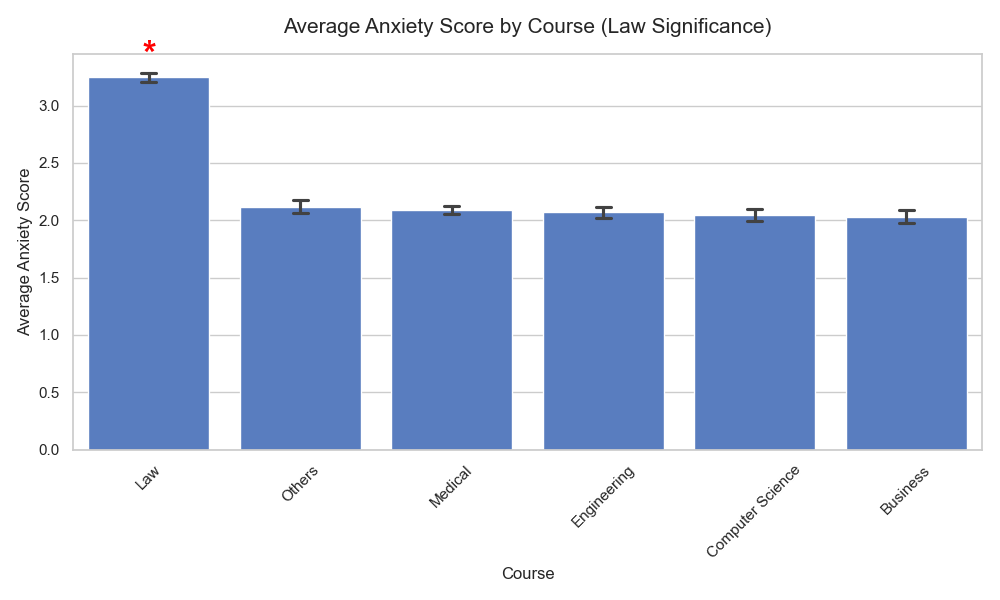
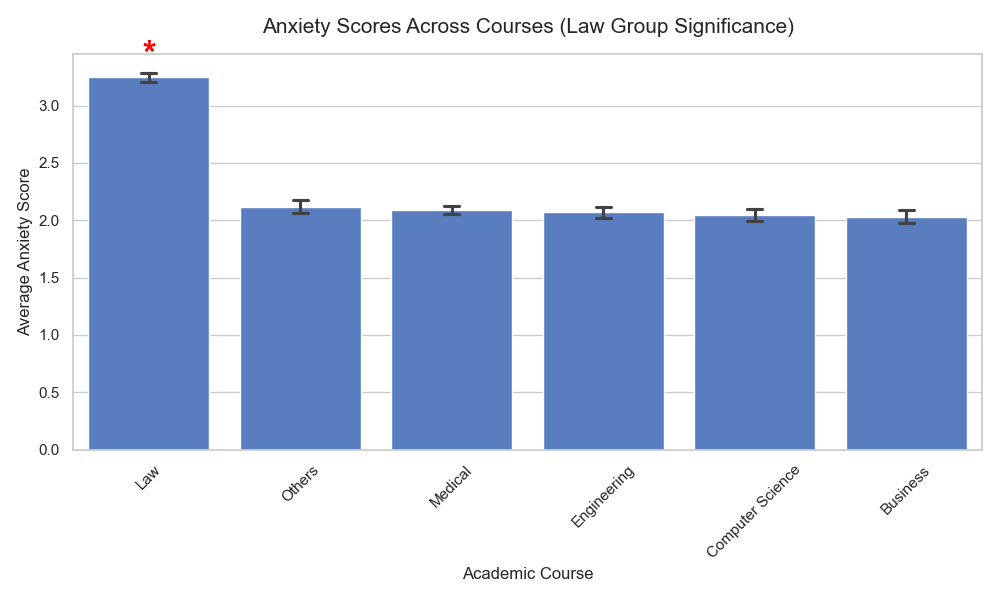
sun_ch2

Changed region(s): [[0.248, 0.03, 0.806, 0.06], [0.465, 0.93, 0.589, 0.99]]

diff --git a/visualizer.py b/visualizer.py
@@ -4,9 +4,10 @@ import matplotlib.pyplot as plt
 
 def annotate_significance(ax, variable, order):
     """
-    Helper function to place significance stars above bars based on Tukey results.
+    Adds visual markers (red asterisks) above specific bars to indicate 
+    statistical significance found in Tukey HSD post-hoc tests.
     """
-    # Map each variable to its most significant 'Outlier' group found in analysis
+    # Mapping each variable to the group that showed significant deviation in analysis
     highlights = {
         'Stress_Level': 'Medical',
         'Anxiety_Score': 'Law',
@@ -15,75 +16,75 @@ def annotate_significance(ax, variable, order):
     
     if variable in highlights:
         target_group = highlights[variable]
+        # Iterate through the bars to find the match and place the star
         for i, bar_name in enumerate(order):
             if bar_name == target_group:
-                # Add an asterisk above the target bar
+                # Get the height of the bar to position the text above it
                 height = ax.patches[i].get_height()
                 ax.text(i, height + 0.1, '*', ha='center', fontsize=25, 
                         color='red', fontweight='bold')
 
 def create_bar_plot(df, variable, title, logger):
     """
-    Generates a high-quality bar chart for a metric, sorted by mean values.
-    Includes Standard Error (SE) bars and significance markers.
+    Generates a high-quality bar chart for a mental health metric.
+    Includes Standard Error (SE) bars to represent data variability 
+    and calls annotate_significance for post-hoc markers.
     """
     plt.figure(figsize=(10, 6))
     sns.set_theme(style="whitegrid", palette="muted")
     
-    # Sort courses by mean to create a clear descending visualization
+    # Sort courses by their mean values for a clearer, descending visualization
     order = df.groupby('Course')[variable].mean().sort_values(ascending=False).index
     
-    # Build the bar plot with seaborn
+    # Draw the bar plot with standard error bars (SE)
     ax = sns.barplot(data=df, x='Course', y=variable, order=order, capsize=.1, errorbar='se')
     
-    # Styling labels and titles
+    # Configure plot labels and titles
     plt.title(title, fontsize=15, pad=15)
     plt.ylabel(f"Average {variable.replace('_', ' ')}")
+    plt.xlabel("Academic Course")
     plt.xticks(rotation=45)
     
-    # Add significance star to the chart
+    # Add post-hoc significance markers
     annotate_significance(ax, variable, order)
     
-    # Save the figure to the output folder
+    # Save the chart as a high-resolution PNG
     plt.tight_layout()
     plt.savefig(f"reports/figures/{variable}_comparison.png")
-    plt.close() # Close figure to free up memory
-    logger.info(f"Visualized chart for {variable} saved.")
+    plt.close() # Free memory after saving
+    logger.info(f"Scientific bar chart for {variable} saved successfully.")
 
 def run_all_visualizations(df, logger):
     """
-    Manager function to iterate through all metrics and create corresponding charts.
+    The orchestrator function for standard supervised plots.
+    Iterates through the primary mental health metrics and generates charts.
     """
-    logger.info("--- STARTING DATA VISUALIZATION PROCESS ---")
-    
-    # Dictionary mapping variable names to their descriptive plot titles
+    # Configuration for plot titles based on primary research findings
     plot_config = {
-        'Stress_Level': 'Average Stress Level by Course (Medical Significance)',
-        'Anxiety_Score': 'Average Anxiety Score by Course (Law Significance)',
-        'Depression_Score': 'Average Depression Score by Course (CS Significance)'
+        'Stress_Level': 'Stress Levels Across Courses (Medical Group Significance)',
+        'Anxiety_Score': 'Anxiety Scores Across Courses (Law Group Significance)',
+        'Depression_Score': 'Depression Scores Across Courses (CS Group Significance)'
     }
     
-    # Generate a plot for each metric in the configuration
     for var, title in plot_config.items():
         create_bar_plot(df, var, title, logger)
 
-
-
-def plot_correlation_matrix(df, variables, logger):
+def plot_correlation_heatmap(df, variables, logger):
     """
-    Creates a visual Heatmap of the correlations between mental health metrics.
+    Generates a correlation heatmap to identify relationships between metrics.
+    Essential for justifying the underlying structure before EFA.
     """
-    import matplotlib.pyplot as plt
-    import seaborn as sns
-    
     plt.figure(figsize=(8, 6))
+    # Calculate Pearson correlation coefficients
     corr_matrix = df[variables].corr()
     
-    # Generate the heatmap
-    sns.heatmap(corr_matrix, annot=True, cmap='coolwarm', fmt=".2f", linewidths=0.5)
+    # Visualize the matrix using a heatmap with numerical annotations
+    sns.heatmap(corr_matrix, annot=True, cmap='coolwarm', center=0, fmt=".2f")
     
-    plt.title("Correlation Matrix: Mental Health Metrics", fontsize=14)
+    plt.title("Correlation Matrix: Mental Health Metrics", fontsize=14, pad=15)
     plt.tight_layout()
+    
+    # Save the heatmap for the factor analysis justification
     plt.savefig("reports/figures/correlation_heatmap.png")
     plt.close()
-    logger.info("Correlation heatmap saved to reports/figures/correlation_heatmap.png")
+    logger.info("Correlation heatmap generated and saved in reports/figures/.")

diff --git a/unsupervised.py b/unsupervised.py
@@ -1,0 +1,66 @@
+import pandas as pd
+import logging
+from factor_analyzer import FactorAnalyzer
+from factor_analyzer.factor_analyzer import calculate_bartlett_sphericity, calculate_kmo
+
+def run_unsupervised_analysis(df, variables, logger):
+    """
+    Manager function for unsupervised learning.
+    It verifies assumptions (KMO/Bartlett) and then performs EFA to identify latent factors.
+    """
+    logger.info("--- STARTING UNSUPERVISED ANALYSIS PHASE ---")
+    
+    # Check if the data structure is suitable for factor analysis
+    is_suitable = check_efa_assumptions(df, variables, logger)
+    
+    if is_suitable:
+        # If assumptions pass, proceed to identifying the common mental health factor
+        perform_efa(df, variables, logger)
+    else:
+        logger.warning("Data does not meet EFA requirements. Skipping Factor Analysis.")
+
+def check_efa_assumptions(df, variables, logger):
+    """
+    Calculates KMO (sampling adequacy) and Bartlett's Test (sphericity).
+    Saves the metrics to a CSV table to provide statistical justification for the EFA.
+    """
+    subset = df[variables]
+    
+    # Bartlett's Test: Evaluates if variables are related (p-value < 0.05 required)
+    chi_square, p_value = calculate_bartlett_sphericity(subset)
+    
+    # KMO Test: Evaluates the proportion of variance among variables (score > 0.6 required)
+    kmo_all, kmo_model = calculate_kmo(subset)
+    
+    # Consolidate results into a clear report for the user
+    assumption_results = {
+        'Statistical_Test': ['Bartlett Chi-Square', 'Bartlett P-Value', 'KMO Score'],
+        'Result_Value': [round(chi_square, 3), round(p_value, 4), round(kmo_model, 3)],
+        'Threshold_Requirement': ['N/A', 'p < 0.05', 'Score > 0.6']
+    }
+    
+    # Save the decision-making table to the reports folder
+    pd.DataFrame(assumption_results).to_csv("reports/tables/efa_assumptions.csv", index=False)
+    logger.info(f"EFA assumptions calculated. KMO: {round(kmo_model, 3)}")
+    
+    return kmo_model > 0.6 and p_value < 0.05
+
+def perform_efa(df, variables, logger):
+    """
+    Executes Exploratory Factor Analysis (EFA) to discover hidden patterns.
+    It reduces Stress, Anxiety, and Depression into a single 'Common Distress' factor.
+    """
+    # Initialize the factor analyzer for 1 factor (Mental Distress)
+    fa = FactorAnalyzer(n_factors=1, rotation="varimax")
+    fa.fit(df[variables])
+    
+    # Extract 'Loadings' - showing how much each variable contributes to the hidden factor
+    loadings_table = pd.DataFrame(
+        fa.loadings_, 
+        index=variables, 
+        columns=['General_Distress_Factor']
+    )
+    
+    # Save findings for interpretation in the research paper
+    loadings_table.to_csv("reports/tables/efa_loadings.csv")
+    logger.info("EFA successfully completed. Factor loadings saved to tables folder.")

diff --git a/main.py b/main.py
@@ -1,32 +1,41 @@
 import pandas as pd
-import data_cleaning  # Assumes pre_process function exists here
-import stats_analysis # Statistical logic
-import visualizer     # Graphing logic
+import data_cleaning  # Data pre-processing logic
+import stats_analysis # Supervised statistical logic
+import visualizer     # Graphing and visualization logic
+import unsupervised   # Unsupervised analysis (EFA) logic
 
 def main():
     """
     Main entry point for the Student Mental Health Analysis Pipeline.
-    Steps: Setup -> Load -> Clean -> Stats -> Visualize.
+    Orchestrates the research flow: Setup -> Pre-process -> Statistics -> Visualization -> EFA.
     """
     # Step 1: Initialize Logging and Output Directories
+    # This ensures all analysis is documented and folders are ready for files
     logger = stats_analysis.setup_environment()
     
     # Step 2: Data Pipeline - Load raw CSV and clean it
+    # We load the raw database and apply mapping to categorical strings
     logger.info("Initializing Data Pipeline...")
     raw_data = pd.read_csv("st_1.csv")
     df_clean = data_cleaning.pre_process(raw_data)
     
     # Step 3: Analytics - Run T-Tests and ANOVA
-    # Defined metrics to analyze across different group types
+    # Defined metrics to analyze across STEM and academic courses
     metrics = ['Stress_Level', 'Depression_Score', 'Anxiety_Score']
     stats_analysis.run_t_tests(df_clean, metrics, logger)
     stats_analysis.run_anova_and_tukey(df_clean, metrics, logger)
     
     # Step 4: Visualization - Generate and save scientific plots
+    # Creates sorted bar charts with significance markers
     visualizer.run_all_visualizations(df_clean, logger)
 
-    logger.info("Pipeline Complete. All reports are available in the 'reports' folder.")
+    # Step 5: Unsupervised Analysis - Explore Latent Factor structure (EFA)
+    # Checks for correlations and combines indicators into a single distress factor
+    visualizer.plot_correlation_heatmap(df_clean, metrics, logger)
+    unsupervised.run_unsupervised_analysis(df_clean, metrics, logger)
+
+    logger.info("Full Research Pipeline Complete. All results available in 'reports/'.")
 
 if __name__ == "__main__":
-    # Execute the main function
+    # Execute the research pipeline
     main()
